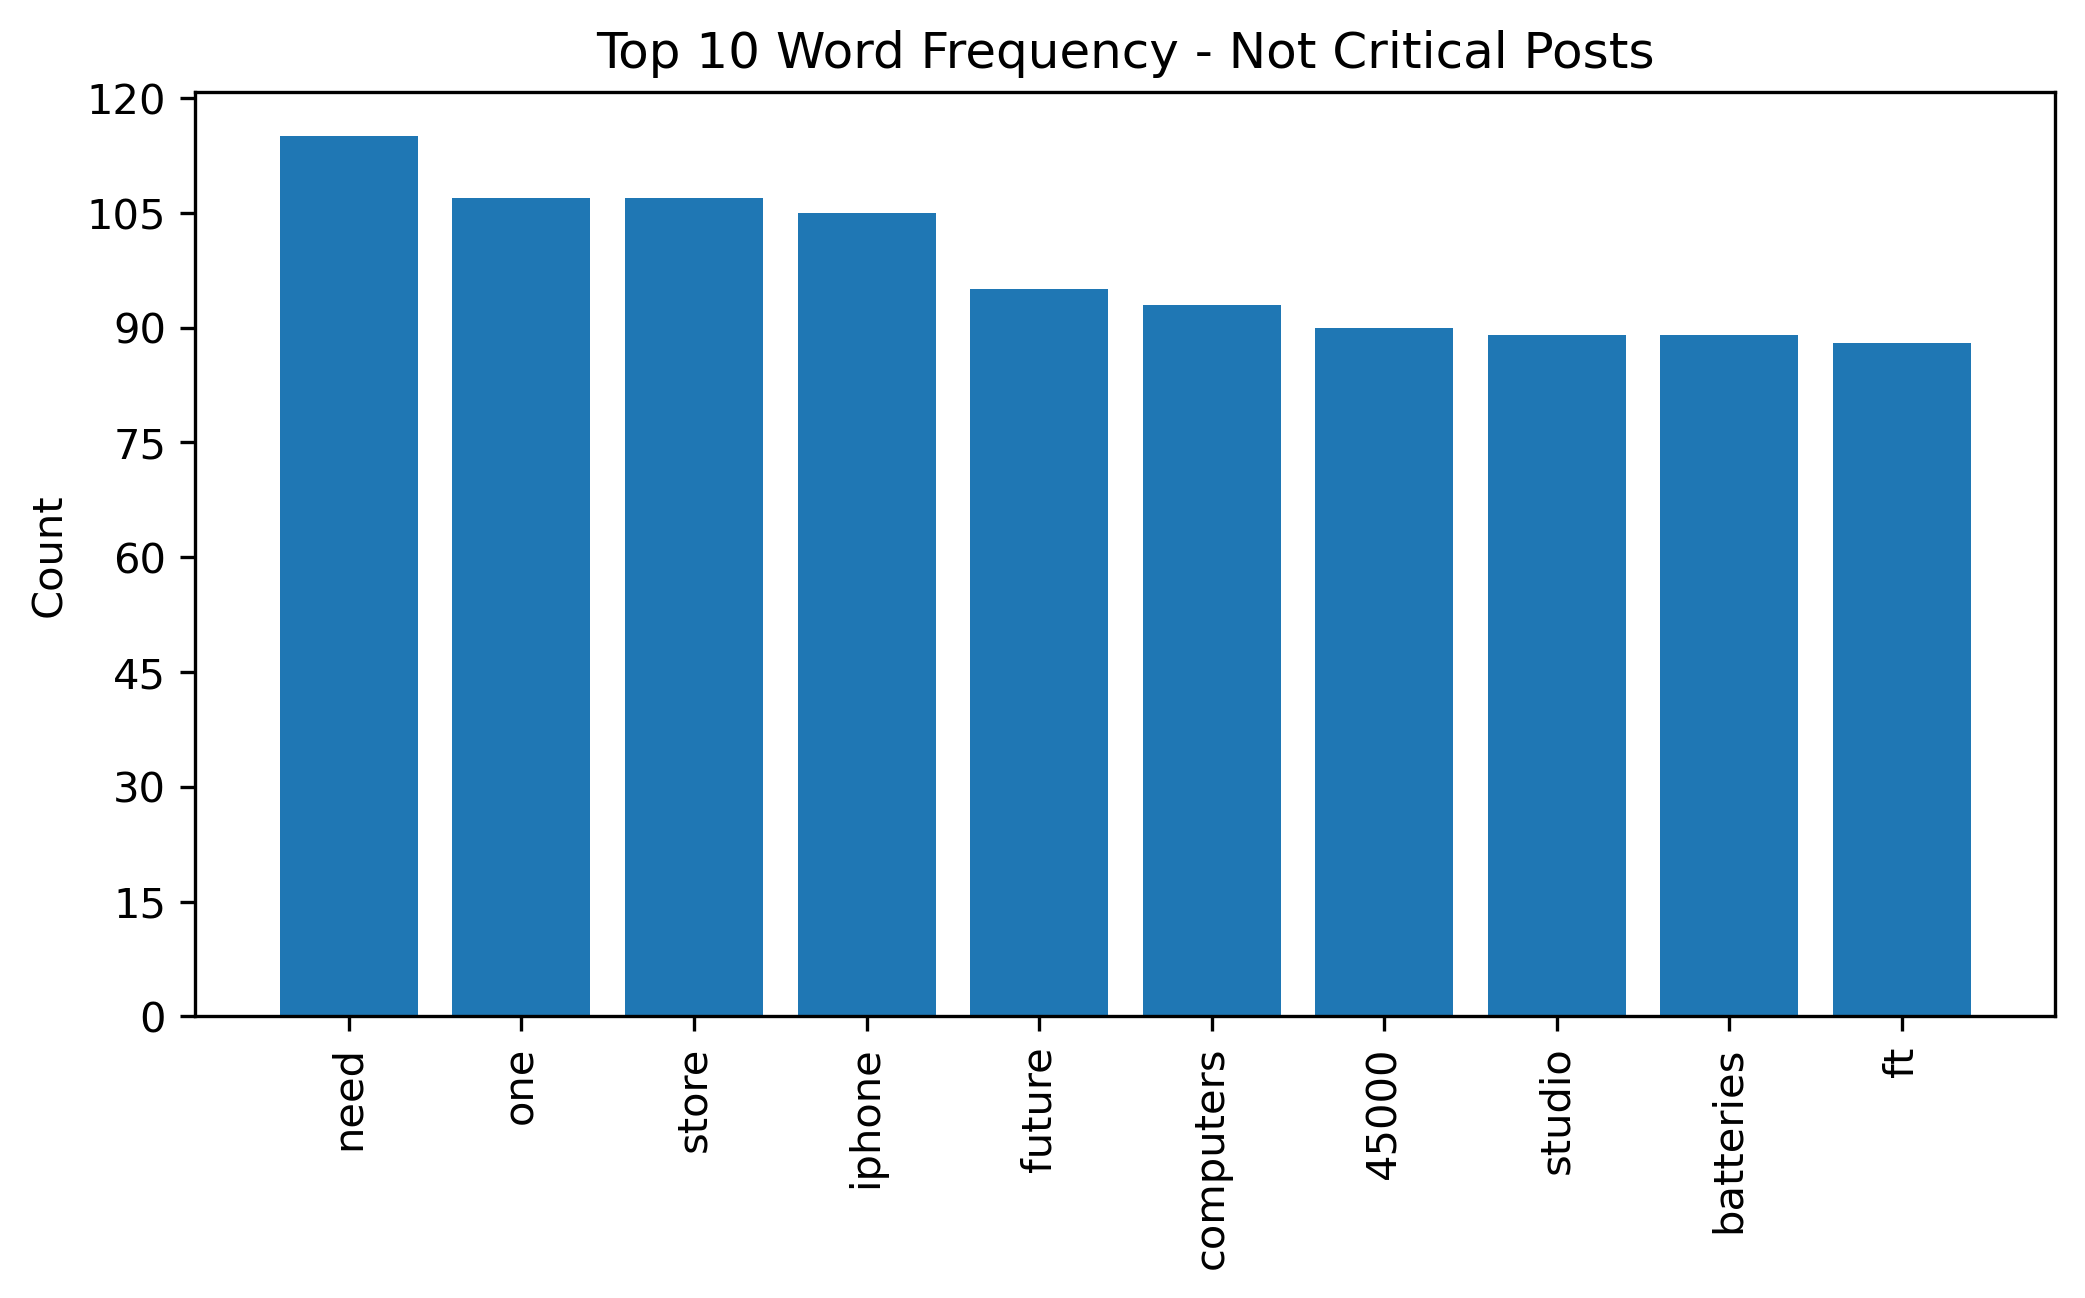
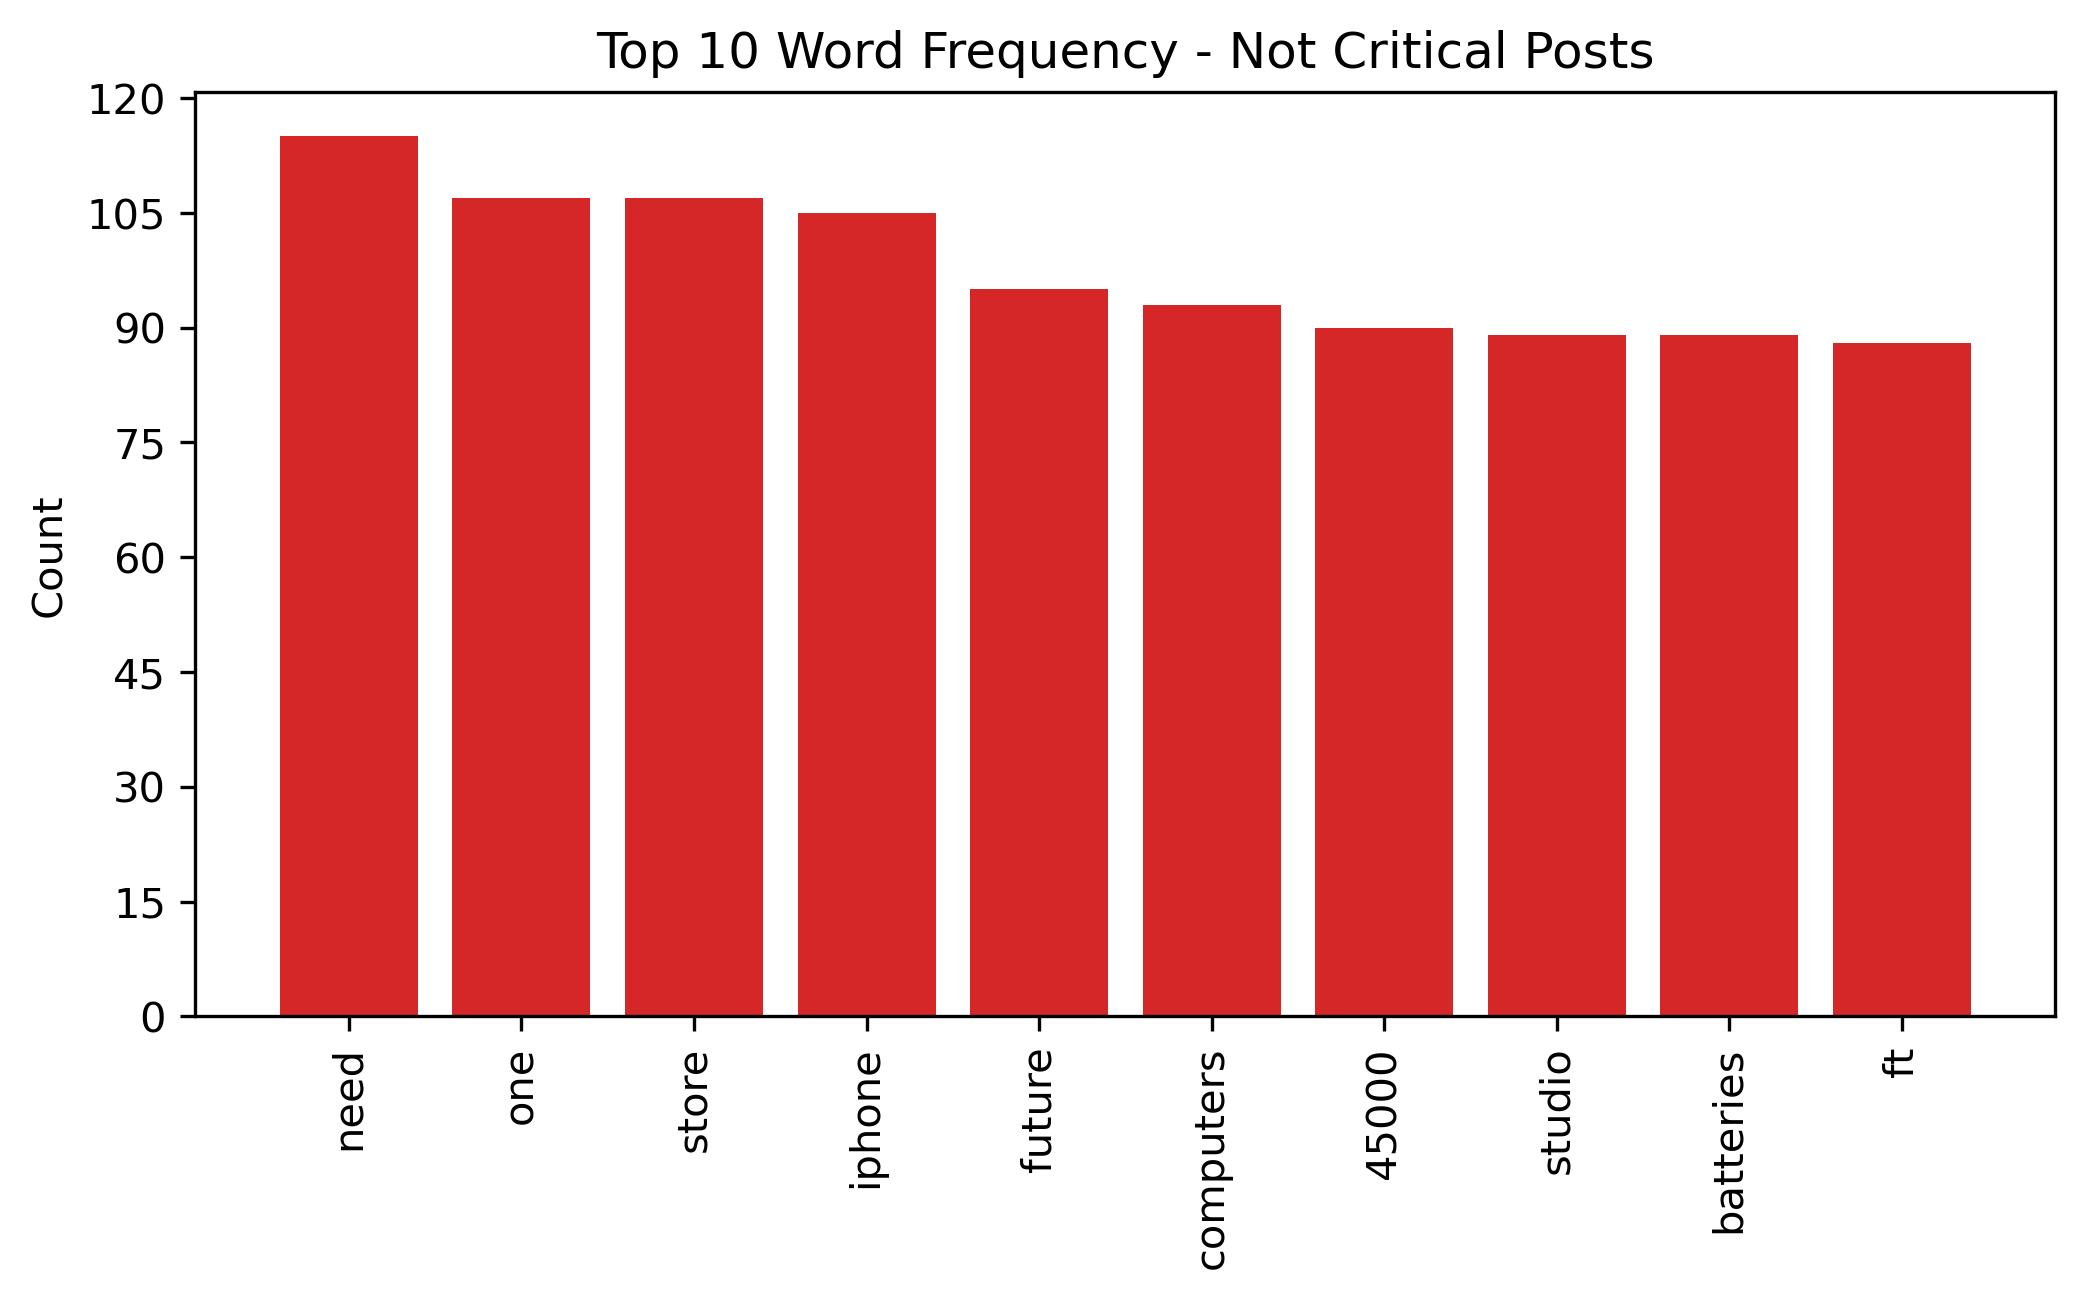
Plot Colors Updated

diff --git a/README.md b/README.md
@@ -88,7 +88,7 @@ The dataset only contained posts from a specific time period. The model is not t
 
 ## Next Steps
 
-* Evaluate the model yearly to ensure the the model has been trained on information that is relevant to current Appple products and current customer sentiment.
+* Evaluate the model yearly to ensure the the model has been trained on information that is relevant to current Apple products and current customer sentiment.
 * Consider incorporating Apple reviews on other websites.
 * Review posts that are classified as Critical to determine whether customers want to continue to buy Apple products from TSC.
 
